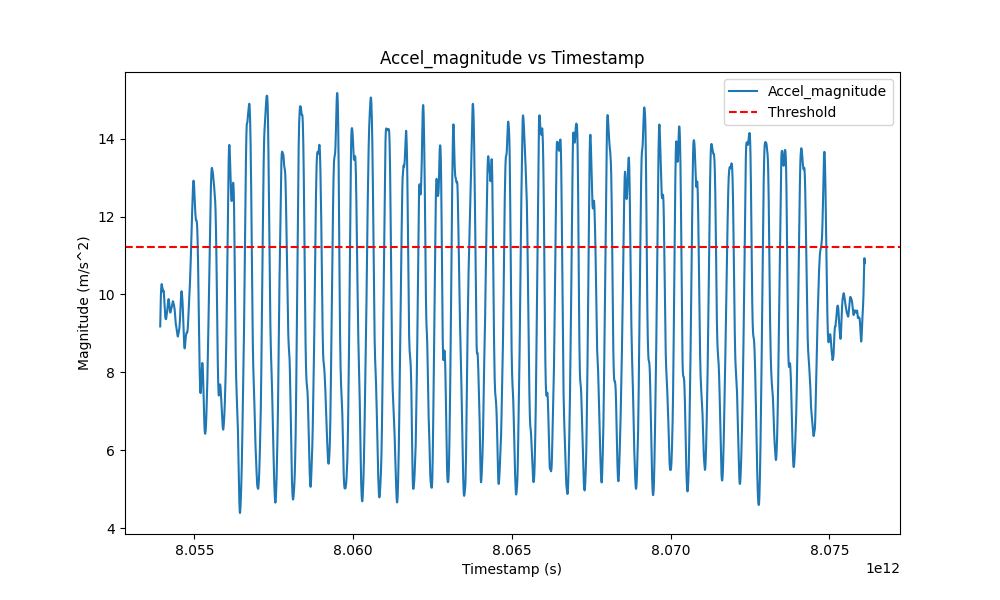
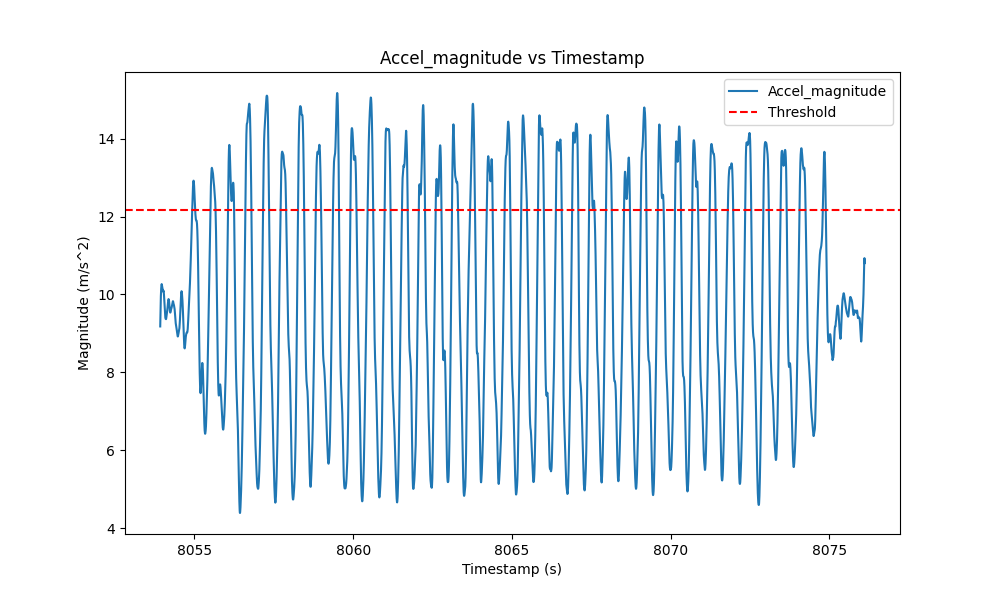
Completed M4

diff --git a/m4/milestone4.py b/m4/milestone4.py
@@ -2,24 +2,28 @@ import pandas as pd
 import matplotlib.pyplot as plt
 import numpy as np
 
-# Step 1: Read the CSV file into a DataFrame
 df = pd.read_csv('../lab8-dataset/WALKING_AND_TURNING.csv', header=0,
-                 usecols=["timestamp", "accel_x", "accel_y", "accel_z", "gyro_x", "gyro_y", "gyro_z", "mag_x", "mag_y",
-                          "mag_z"])
+                 usecols=["timestamp", "accel_x", "accel_y", "accel_z", "gyro_x", "gyro_y", "gyro_z"], index_col=None,
+                 names=["timestamp", "accel_x", "accel_y", "accel_z", "gyro_x", "gyro_y", "gyro_z"])
 
-print(df)
-columns_to_smooth = ["accel_x", "accel_y", "accel_z", "gyro_x", "gyro_y", "gyro_z", "mag_x", "mag_y", "mag_z"]
+columns_to_smooth = ["accel_x", "accel_y", "accel_z", "gyro_x", "gyro_y", "gyro_z"]
 for column in columns_to_smooth:
     df[column + "_smoothed"] = df[column].rolling(window=20, min_periods=1).mean()
 
+df['timestamp'] = df['timestamp'] * 1e-9
+
+df['time_seconds'] = df['timestamp']
+df['integral_smooth_gyro_x'] = np.cumsum(df['gyro_x_smoothed'] * (df['time_seconds'].diff().fillna(0)))
+df['integral_smooth_gyro_y'] = np.cumsum(df['gyro_y_smoothed'] * (df['time_seconds'].diff().fillna(0)))
+df['integral_smooth_gyro_z'] = np.cumsum(df['gyro_z_smoothed'] * (df['time_seconds'].diff().fillna(0)))
+
 plt.figure(figsize=(12, 6))
 
-# Unsmoothed data
-# plt.plot(df['gyro_x'], label='gyro_x (Unsmoothed)')
+plt.plot(df['gyro_x'], label='gyro_x (Unsmoothed)')
 plt.plot(df['gyro_y'], label='gyro_y (Unsmoothed)')
 plt.plot(df['gyro_z'], label='gyro_z (Unsmoothed)')
 
-# plt.plot(df['gyro_x_smoothed'], label='gyro_x (Smoothed)')
+plt.plot(df['gyro_x_smoothed'], label='gyro_x (Smoothed)')
 plt.plot(df['gyro_y_smoothed'], label='gyro_y (Smoothed)')
 plt.plot(df['gyro_z_smoothed'], label='gyro_z (Smoothed)')
 
@@ -28,3 +32,131 @@ plt.ylabel('Gyroscope')
 plt.title('Gyroscope Data')
 plt.legend()
 plt.savefig('gyroscope_plot.png')
+
+plt.figure(figsize=(12, 6))
+
+plt.plot(df['integral_smooth_gyro_x'], label='Integral gyro_x (Smoothed)')
+plt.plot(df['integral_smooth_gyro_y'], label='Integral gyro_y (Smoothed)')
+plt.plot(df['integral_smooth_gyro_z'], label='Integral gyro_z (Smoothed)')
+
+plt.xlabel('Timestamp')
+plt.ylabel('Integrated Gyroscope')
+plt.title('Integrated Gyroscope Data')
+plt.legend()
+plt.savefig('integrated_gyroscope_plot.png')
+
+df['accel_magnitude'] = (df['accel_x_smoothed'] ** 2 + df['accel_y_smoothed'] ** 2 + df['accel_z_smoothed'] ** 2) ** 0.5
+threshold = df['accel_magnitude'].quantile(0.70)
+
+plt.figure(figsize=(10, 6))
+plt.plot(df['timestamp'], df['accel_magnitude'], label='Accel_magnitude')
+plt.axhline(y=threshold, color='r', linestyle='--', label='Threshold')
+plt.title('Accel_magnitude vs Timestamp')
+plt.xlabel('Timestamp (s)')
+plt.ylabel('Magnitude (m/s^2)')
+plt.legend()
+plt.savefig(f'accel_magnitude_plot.png')
+
+above_threshold = False
+step_count = 0
+for value in df['accel_magnitude']:
+    if value > threshold and not above_threshold:
+        above_threshold = True
+    elif value < threshold and above_threshold:
+        above_threshold = False
+        step_count += 1
+
+print(f"Number of steps: {step_count}")
+
+threshold_gyro = .75
+df['magnitude_integrated_gyro'] = np.sqrt(df['integral_smooth_gyro_x'] ** 2 +
+                                          df['integral_smooth_gyro_y'] ** 2 +
+                                          df['integral_smooth_gyro_z'] ** 2)
+df['magnitude_integrated_gyro'].replace([np.inf, -np.inf, np.nan], 0, inplace=True)
+df['division_result'] = (df['magnitude_integrated_gyro'] // threshold_gyro)
+
+plt.figure(figsize=(12, 6))
+plt.plot(df['integral_smooth_gyro_x'], label='Integral gyro_x (Smoothed)')
+plt.plot(df['integral_smooth_gyro_y'], label='Integral gyro_y (Smoothed)')
+plt.plot(df['integral_smooth_gyro_z'], label='Integral gyro_z (Smoothed)')
+
+prev_value = 0
+legend_added = False
+total_turns = 0
+timestamps = []
+above_threshold = False
+step_count = 0
+prev_step_count = 0
+line_lengths = []
+for index, row in df.iterrows():
+    current_value = row['division_result']
+    value = row['accel_magnitude']
+    if value > threshold and not above_threshold:
+        above_threshold = True
+    elif value < threshold and above_threshold:
+        above_threshold = False
+        step_count += 1
+    if current_value != prev_value:
+        total_turns += 1
+        timestamps.append(row['timestamp'])
+        if current_value > prev_value:
+            print(f"A 45 degree turn counterclockwise was made at timestamp: {row['timestamp']} steps up to this turn: "
+                  f"{step_count - prev_step_count}")
+        else:
+            print(f"A 45 degree turn clockwise was made at timestamp: {row['timestamp']} steps up to this turn: "
+                  f"{step_count - prev_step_count}")
+        line_lengths.append(step_count - prev_step_count)
+        plt.axvline(x=index, color='r', linestyle='--', label='Change' if not legend_added else '')
+        prev_value = current_value
+        legend_added = True
+        prev_step_count = step_count
+
+plt.xlabel('Timestamp')
+plt.ylabel('Integrated Gyroscope')
+plt.title('Integrated Gyroscope Data')
+plt.legend()
+plt.savefig('integrated_gyroscope_plot_with_lines.png')
+print(f"A total of {total_turns} 90 degree turns were made.")
+
+
+def calculate_coordinates(x, y, line_length, line_angle):
+    angle_rad = np.radians(line_angle)
+    new_x = x + line_length * np.cos(angle_rad)
+    new_y = y + line_length * np.sin(angle_rad)
+    return new_x, new_y
+
+
+data = {'Length': line_lengths,
+        'Angle': [90]+([45] * (len(line_lengths) - 1))}
+
+df = pd.DataFrame(data)
+
+start_x, start_y = 0, 0
+accumulated_angle = 0
+
+fig, ax = plt.subplots()
+
+ax.axhline(0, color='black', linewidth=0.8)
+ax.axvline(0, color='black', linewidth=0.8)
+
+ax.set_xlim([-max(line_lengths)*2, max(line_lengths)*2])
+ax.set_ylim([-max(line_lengths)*2, max(line_lengths)*2])
+
+lines = []
+
+for index, row in df.iterrows():
+    length = row['Length']
+    angle = row['Angle']
+    accumulated_angle += angle
+
+    end_x, end_y = calculate_coordinates(start_x, start_y, length, accumulated_angle)
+    line = ax.plot([start_x, end_x], [start_y, end_y], marker='o')[0]
+    lines.append(line)
+    start_x, start_y = end_x, end_y
+ax.set_aspect('equal', adjustable='box')
+ax.legend(lines, [f'Length: {length} meters' for length in line_lengths])
+plt.grid(True)
+plt.xlabel('X-axis (Meters)')
+plt.ylabel('Y-axis (Meters)')
+plt.title('Coordinate Plane in meters to plot path')
+plt.savefig('walking_trajectory_plot.png')

diff --git a/m2/milestone2.py b/m2/milestone2.py
@@ -2,6 +2,7 @@ import pandas as pd
 import matplotlib.pyplot as plt
 
 df = pd.read_csv('../lab8-dataset/WALKING.csv', header=0, usecols=['timestamp', 'accel_x', 'accel_y', 'accel_z'])
+df['timestamp'] = df['timestamp'] * 1e-9
 
 columns_to_smooth = ['accel_x', 'accel_y', 'accel_z']
 for column in columns_to_smooth:
@@ -16,7 +17,7 @@ for column in columns_to_smooth:
 
 df['accel_magnitude'] = (df['accel_x_smoothed'] ** 2 + df['accel_y_smoothed'] ** 2 + df['accel_z_smoothed'] ** 2) ** 0.5
 
-threshold = df['accel_magnitude'].quantile(0.65)
+threshold = df['accel_magnitude'].quantile(0.70)
 plt.figure(figsize=(10, 6))
 plt.plot(df['timestamp'], df['accel_magnitude'], label='Accel_magnitude')
 plt.axhline(y=threshold, color='r', linestyle='--', label='Threshold')

diff --git a/m3/milestone3.py b/m3/milestone3.py
@@ -70,9 +70,9 @@ for index, row in data.iterrows():
     if current_value != prev_value:
         total_turns+=1
         if current_value > prev_value:
-            print(f"A 90 degree turn counterclockwise was made")
+            print(f"A 90 degree turn counterclockwise was made at timestamp: {row['timestamp']}")
         else:
-            print(f"A 90 degree turn clockwise was made")
+            print(f"A 90 degree turn clockwise was made at timestamp: {row['timestamp']}")
         plt.axvline(x=index, color='r', linestyle='--', label='Change' if not legend_added else '')
         prev_value = current_value
         legend_added = True
